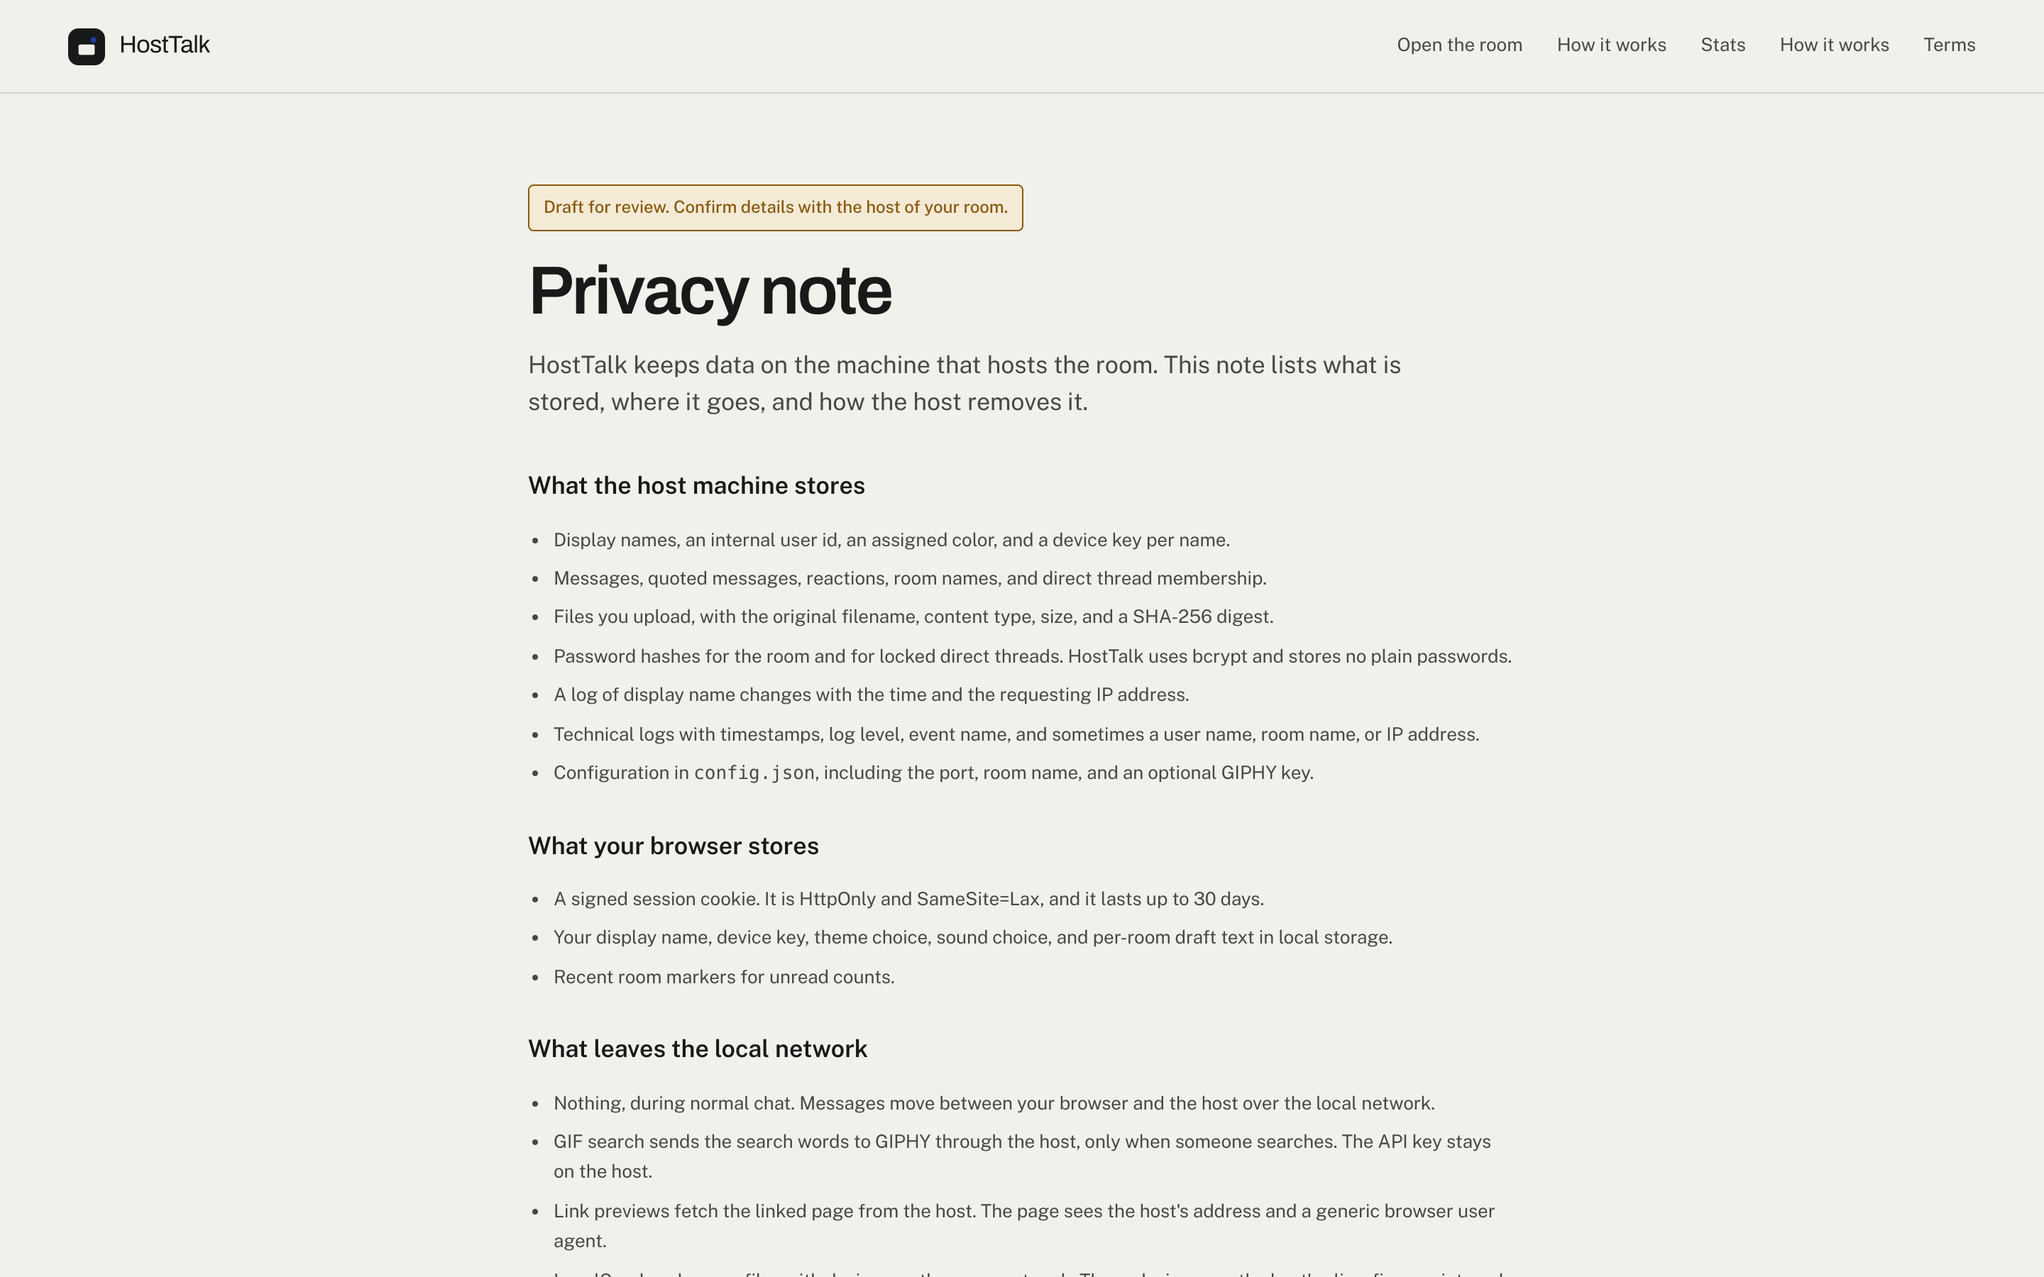
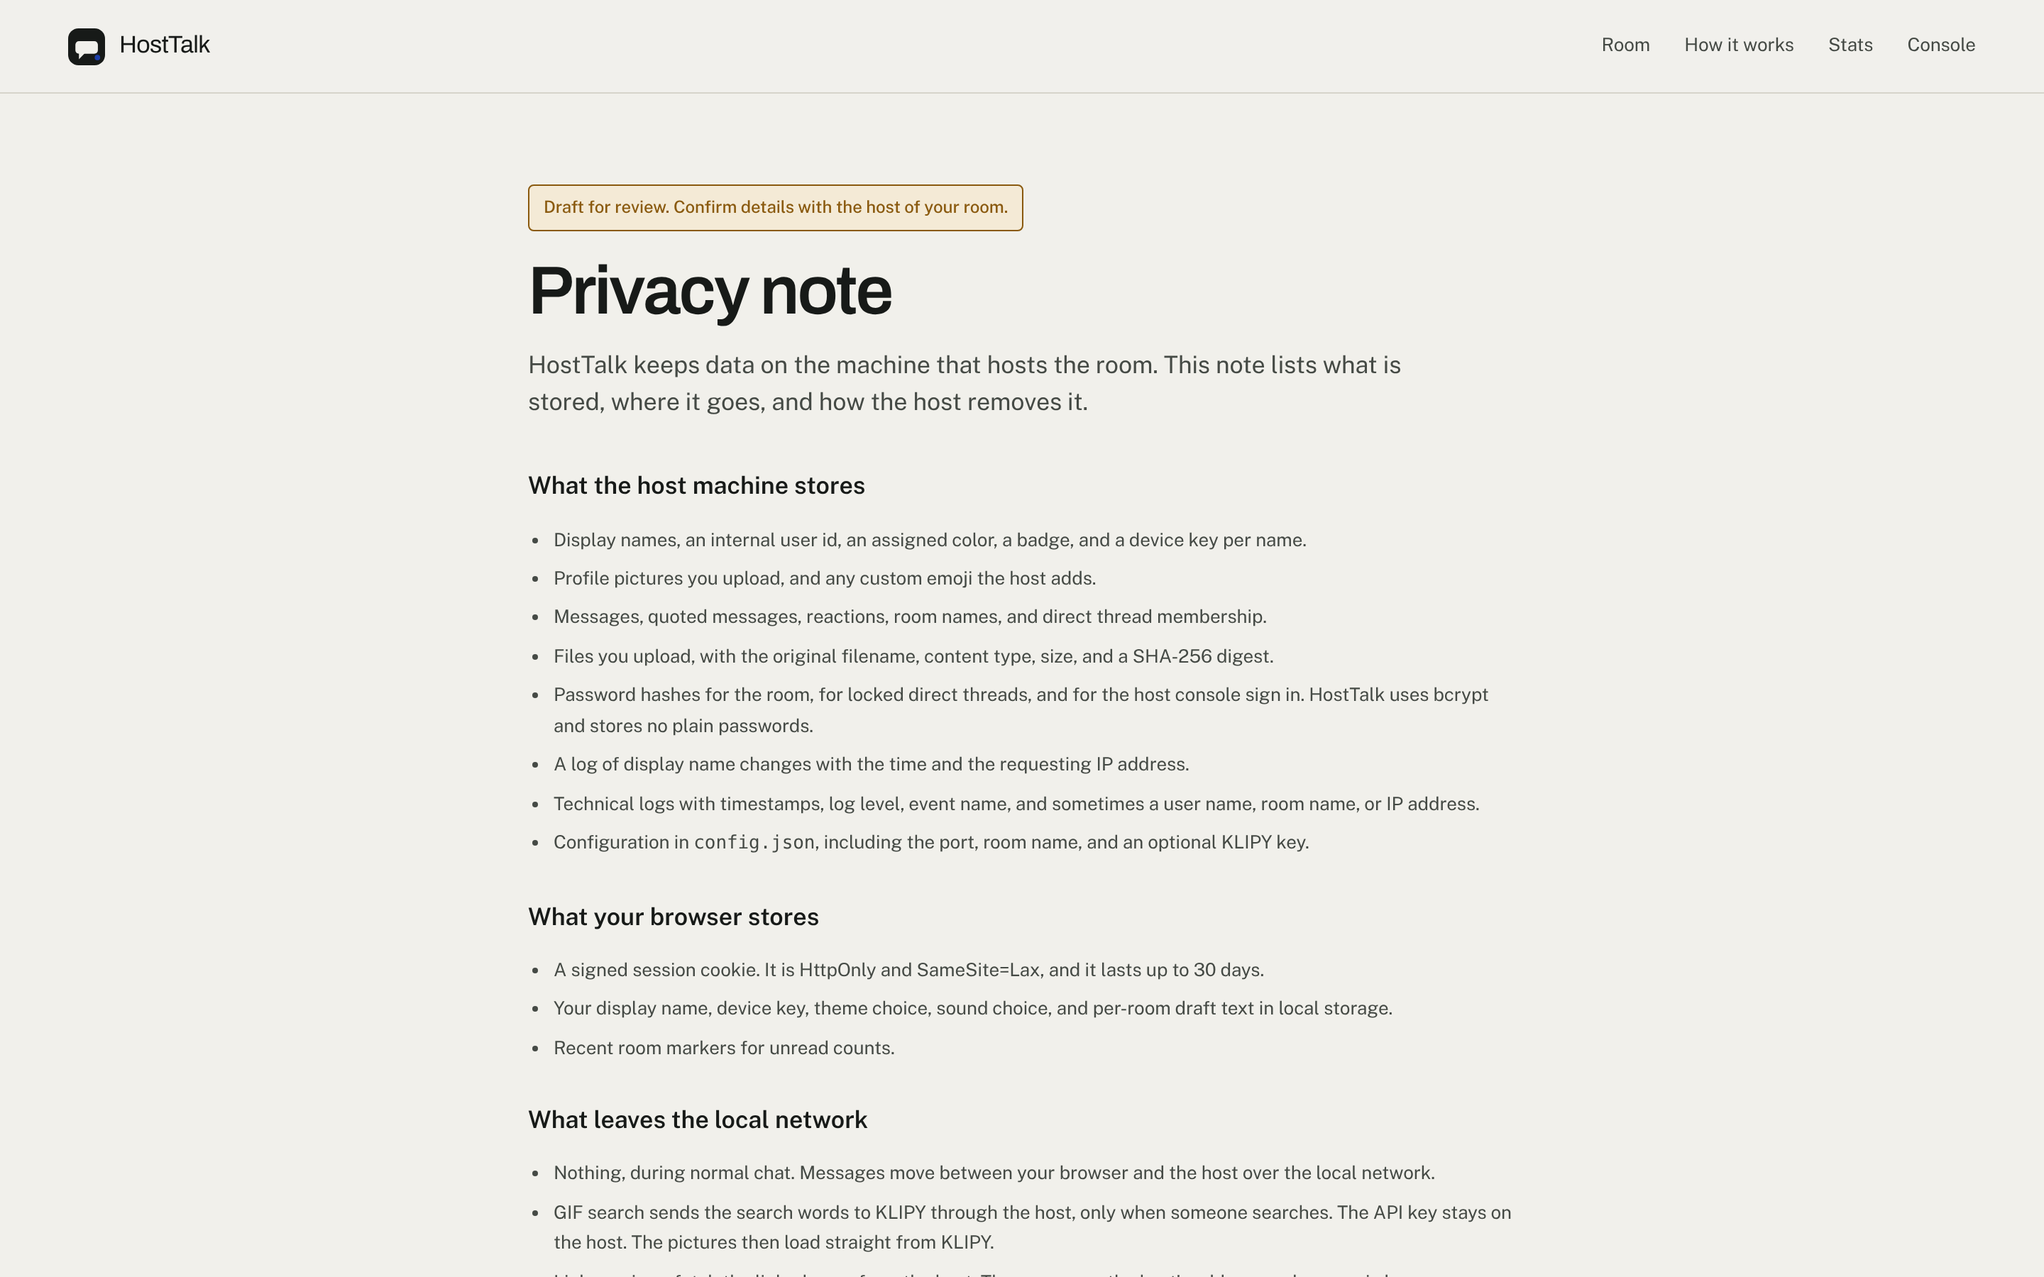
Replace the screenshot set with the 2.2 room
Every image came from a fresh demo room on this build, captured in one pass
at 1440 by 900 with device scale 2, and at 414 by 896 for the phone views.

- The room shows profile pictures, a badge each, a nested room, an image
  attachment, a pin, a quote, an edit, and the hover toolbar under the pointer.
- The console shows the KLIPY field and the new settings layout.
- The seed script writes three people, four rooms, a custom emoji, and the
  message order the shots follow. Device keys stay stable, so a rerun joins
  the same three names instead of doubling them.
- The notes record how the set was made and where the demo pictures came from.

diff --git a/docs/seed-demo.js b/docs/seed-demo.js
@@ -1,19 +1,31 @@
 // Seeds a demo room over the public API. One HTTP client per person, so each
 // gets its own session cookie, exactly like three separate devices.
+//
+// Run against a fresh data folder:
+//   node docs/seed-demo.js
+//
+// The screenshots in static/screenshots come from this room. Every name and
+// message is a placeholder.
 const BASE = process.env.BASE || "http://127.0.0.1:7284";
 const PW = process.env.PW || "frontroom";
+const ASSETS = process.env.ASSETS || "/tmp/cap/assets";
 const fs = require("fs");
+const path = require("path");
 
-function client() {
+function client(deviceKey) {
   let cookie = "";
-  async function call(path, options = {}) {
+  async function call(route, options = {}) {
     const headers = { ...(options.headers || {}) };
     if (cookie) headers.cookie = cookie;
     if (options.json !== undefined) {
       headers["content-type"] = "application/json";
       options.body = JSON.stringify(options.json);
     }
-    const response = await fetch(BASE + path, { method: options.method || "GET", headers, body: options.body });
+    const response = await fetch(BASE + route, {
+      method: options.method || "GET",
+      headers,
+      body: options.body,
+    });
     const set = response.headers.getSetCookie ? response.headers.getSetCookie() : [];
     if (set.length) cookie = set.map((entry) => entry.split(";")[0]).join("; ");
     const text = await response.text();
@@ -23,95 +35,136 @@ function client() {
     } catch (error) {
       data = { raw: text.slice(0, 200) };
     }
-    if (!response.ok) throw new Error(`${path} ${response.status} ${JSON.stringify(data).slice(0, 200)}`);
+    if (!response.ok) {
+      throw new Error(`${route} ${response.status} ${JSON.stringify(data).slice(0, 240)}`);
+    }
     return data;
   }
-  return { call };
+  async function upload(route, field, filePath, filename, extra = {}) {
+    const form = new FormData();
+    const type = filename.endsWith(".png") ? "image/png" : "application/octet-stream";
+    for (const [key, value] of Object.entries(extra)) form.append(key, value);
+    form.append(field, new Blob([fs.readFileSync(filePath)], { type }), filename);
+    const response = await fetch(BASE + route, { method: "POST", body: form, headers: { cookie } });
+    const data = await response.json();
+    if (!response.ok) throw new Error(`${route} ${response.status} ${JSON.stringify(data).slice(0, 240)}`);
+    return data;
+  }
+  return { call, upload };
 }
 
-async function join(name) {
-  const c = client();
+async function join(name, key) {
+  const c = client(key);
   await c.call("/api/session", {
     method: "POST",
-    json: { name, password: PW, device_key: `seed-${name.toLowerCase()}` },
+    json: { name, password: PW, device_key: key },
   });
   return c;
 }
 
 async function say(c, roomId, body, extra = {}) {
-  return c.call("/api/messages", {
-    method: "POST",
-    json: { room_id: roomId, body, ...extra },
-  });
+  return c.call("/api/messages", { method: "POST", json: { room_id: roomId, body, ...extra } });
 }
 
 const sleep = (ms) => new Promise((r) => setTimeout(r, ms));
 
 (async () => {
-  const mara = await join("Mara");
-  const jonas = await join("Jonas");
-  const ada = await join("Ada");
-  await sleep(300);
+  const mara = await join("Mara", "seed-mara");
+  const jonas = await join("Jonas", "seed-jonas");
+  const ada = await join("Ada", "seed-ada");
+  await sleep(400);
 
-  const first = await say(mara, "main", "Coffee is ready. Mugs are on the shelf above the kettle.");
-  await sleep(200);
-  await say(
-    mara,
-    "main",
-    "The fibre installer comes Thursday between 9 and 11. I will be out, so someone needs to let him in."
+  // Pictures for two of the three. Ada keeps her initials, which shows the fallback.
+  for (const [who, file] of [
+    [mara, "mara.png"],
+    [jonas, "jonas.png"],
+  ]) {
+    await who.upload("/api/me/avatar", "avatar", path.join(ASSETS, file), file);
+  }
+
+  // Badges: one icon plus up to four characters.
+  await mara.call("/api/me", { method: "PATCH", json: { badge_icon: "room", badge_text: "HOME" } });
+  await jonas.call("/api/me", { method: "PATCH", json: { badge_icon: "hash", badge_text: "JON" } });
+
+  // A custom emoji, added by the host.
+  const emojiData = await mara.upload(
+    "/api/emoji",
+    "file",
+    path.join(ASSETS, "mug.png"),
+    "mug.png",
+    { name: "mug" }
   );
-  await sleep(200);
-  const reply = await say(mara, "main", "Leaving the side gate open from eight.");
-  await sleep(200);
-  await jonas.call(`/api/messages/${reply.message.id}/reactions`, {
-    method: "POST",
-    json: { emoji: "👍" },
-  });
-  await sleep(200);
-  await say(jonas, "main", "I will take the morning slot. Working from the front room anyway.");
+  console.log("emoji", emojiData.emoji.token);
 
-  // Ada uploads the label image, then posts it into the room.
-  const form = new FormData();
-  const file = new Blob([fs.readFileSync("/home/user/HostTalk/static/screenshots/demo-label.png")], {
-    type: "image/png",
-  });
-  form.append("file", file, "front-room-label.png");
-  const uploadResponse = await fetch(BASE + "/api/uploads", {
-    method: "POST",
-    body: form,
-    headers: { cookie: await cookieFor("Ada") },
-  });
-  const uploaded = await uploadResponse.json();
-  if (!uploadResponse.ok) throw new Error("upload failed " + JSON.stringify(uploaded).slice(0, 200));
-  const attachmentId = uploaded.attachment.id;
-  await ada.call("/api/messages", {
+  // The main thread, in the order the shots read: the image sits above the
+  // fold so the text below it fits in one view.
+  await say(mara, "main", "Coffee is ready. Mugs are on the shelf above the kettle.");
+  await sleep(200);
+
+  const uploaded = await ada.upload(
+    "/api/uploads",
+    "file",
+    "/home/user/HostTalk/static/screenshots/demo-label.png",
+    "front-room-label.png"
+  );
+  const labelled = await ada.call("/api/messages", {
     method: "POST",
     json: {
       room_id: "main",
       body: "Label draft, second pass.",
       kind: "image",
-      attachment_id: attachmentId,
+      attachment_id: uploaded.attachment.id,
     },
   });
-  await sleep(300);
+  await sleep(250);
+
+  const pinned = await say(
+    mara,
+    "main",
+    "The fibre installer comes Thursday between 9 and 11. I will be out, so someone needs to let him in."
+  );
+  await sleep(200);
+
+  const reacted = await say(mara, "main", "Leaving the side gate open from eight.");
+  await sleep(200);
+  for (const [who, emoji] of [
+    [jonas, "👍"],
+    [ada, "🙂"],
+    [ada, emojiData.emoji.token],
+  ]) {
+    await who.call(`/api/messages/${reacted.message.id}/reactions`, { method: "POST", json: { emoji } });
+    await sleep(120);
+  }
+
+  await say(jonas, "main", "I will take the morning slot. Working from the front room anyway.");
+  await sleep(200);
+
+  // A quote, then an edit, so the thread shows both.
   const quoted = await mara.call("/api/messages", {
     method: "POST",
     json: {
       room_id: "main",
       body: "Second pass, please. Keep the band and calm the body text.",
-      quote_id: first.message.id,
+      quote_id: labelled.message.id,
     },
   });
-  console.log("quote", quoted.message ? "ok" : JSON.stringify(quoted).slice(0, 160));
-
-  // A group room with the three people plus a locked direct thread.
-  const room = await mara.call("/api/rooms", {
-    method: "POST",
-    json: { name: "Kitchen plans" },
+  await sleep(150);
+  await mara.call(`/api/messages/${quoted.message.id}`, {
+    method: "PATCH",
+    json: { body: "Second pass, please. Keep the band and calm the body text." },
   });
-  const roomId = room.room.id;
-  const invite = await mara.call(`/api/rooms/${roomId}/invite`, { method: "POST" });
-  for (const [c, name] of [[jonas, "Jonas"], [ada, "Ada"]]) {
+
+  // A pin, so the pinned sheet has something in it. Mara is the host.
+  await mara.call(`/api/messages/${pinned.message.id}/pin`, { method: "POST", json: { pinned: true } });
+
+  // A group room inside the main room, and a room inside that one, locked.
+  const kitchen = await mara.call("/api/rooms", { method: "POST", json: { name: "Kitchen plans" } });
+  const kitchenId = kitchen.room.id;
+  const invite = await mara.call(`/api/rooms/${kitchenId}/invite`, { method: "POST" });
+  for (const [c, name] of [
+    [jonas, "Jonas"],
+    [ada, "Ada"],
+  ]) {
     try {
       await c.call("/api/rooms/join", { method: "POST", json: { code: invite.code } });
       console.log("joined", name);
@@ -119,25 +172,28 @@ const sleep = (ms) => new Promise((r) => setTimeout(r, ms));
       console.log("join failed", name, error.message);
     }
   }
-  await say(mara, roomId, "Room for the kitchen work. Plans, dates, receipts.");
-  await say(ada, roomId, "Paint swatches land tomorrow. Two warm options, one grey.");
+  await say(mara, kitchenId, "Room for the kitchen work. Plans, dates, receipts.");
+  await sleep(150);
+  await say(ada, kitchenId, "Paint swatches land tomorrow. Two warm options, one grey.");
+  await sleep(150);
+  await say(jonas, kitchenId, "The tap arrives Friday. I will fit it Saturday morning.");
 
+  const roof = await mara.call("/api/rooms", {
+    method: "POST",
+    json: { name: "Roof work", parent_id: kitchenId, password: "ladder" },
+  });
+  console.log("roof", roof.room.id);
+  await say(mara, roof.room.id, "Scaffold quote is in. Two days, weather permitting.");
+
+  // A direct thread with a password on it, which shows the lock in the rail.
   const people = await mara.call("/api/people");
   const jonasId = people.people.find((person) => person.name === "Jonas").id;
   const dm = await mara.call("/api/dm", { method: "POST", json: { user_id: jonasId } });
+  await mara.call(`/api/rooms/${dm.room.id}/password`, { method: "POST", json: { password: "router" } });
   await say(mara, dm.room.id, "Saturday works for the router swap. I will bring the ladder.");
+  await jonas.call("/api/rooms/" + dm.room.id + "/verify", { method: "POST", json: { password: "router" } });
   await say(jonas, dm.room.id, "Good. I will move the shelf first.");
   console.log("dm", dm.room.id);
+
   console.log("done");
 })();
-
-async function cookieFor(name) {
-  const c = client();
-  const response = await fetch(BASE + "/api/session", {
-    method: "POST",
-    headers: { "content-type": "application/json" },
-    body: JSON.stringify({ name, password: PW, device_key: `seed-${name.toLowerCase()}` }),
-  });
-  const set = response.headers.getSetCookie();
-  return set.map((entry) => entry.split(";")[0]).join("; ");
-}

diff --git a/docs/SCREENSHOTS.md b/docs/SCREENSHOTS.md
@@ -1,43 +1,54 @@
 # Screenshot notes
 
 Every screen image in `static/screenshots` comes from a running build. Nothing is a mockup.
-Every image here comes from the 2.0 build, so the room pictures show no badges, no profile pictures, the old mark, and the GIPHY key field. A fresh set follows the next capture run.
-The social preview is a type card, not a screenshot. Its markup lives in `docs/social-preview.html`.
+
+Every image here comes from the 2.2 build. The room pictures show badges, profile
+pictures, a room inside a room, the hover toolbar, and the KLIPY key field.
+The social preview is a type card, not a screenshot. Its markup lives in
+`docs/social-preview.html`.
 
 ## How the images were made
 
-1. A scratch data folder: `python -m hosttalk setup --data-dir /tmp/htdata --password frontroom --room "Front room" --port 7284`.
-2. The server on `127.0.0.1:7284` with `--headless`.
-3. Three seeded people plus one room and one direct thread, created through the public API. Seed script: the script in `docs/seed-demo.js`.
-4. Chromium at a 1440 by 900 viewport for desktop and 430 by 932 for phone, device scale 2.
-5. One browser process per person, so each session cookie and device key stay separate. People join through the join form, with `hosttalk.device` set to the seeded key before the page loads.
-6. The stats page is captured after the seeded people join, so the online count shows a live room.
-7. Fonts are awaited with `document.fonts.ready`, then the page settles for a second before the shot.
+1. A fresh, empty data folder: `python -m hosttalk setup --password frontroom --room "Front room" --port 7284 --non-interactive`.
+2. The server on `0.0.0.0:7284` with `--headless`.
+3. Three people, three rooms, one custom emoji, two pictures, and a badge each, created through the public API. The script is `docs/seed-demo.js`, and it needs Node 18 or newer.
+4. A headless Chromium at a 1440 by 900 viewport for desktop and 414 by 896 for phone, device scale 2.
+5. One browser context per person, so each session cookie and device key stay separate. The device key is written to local storage before the page loads, and the person joins through the join form.
+6. The address in the shots reads `http://192.168.1.24:7284/room`. A resolver rule in the capture browser points that address at the local server, so no real machine has to exist.
+7. Fonts are awaited with `document.fonts.ready`, then the page settles for half a second before the shot.
+
+## Where the demo pictures came from
+
+Two profile pictures and one custom emoji are drawn for this set, not photographed.
+Mara has a clay disc on a warm field. Jonas has a pale disc over two bands. The
+custom emoji is a mug. Ada keeps her initials, so the fallback stays visible.
 
 ## Labels
 
-The room text is demo copy. "Front room", "Kitchen plans", and the three names are placeholders. The label image in the thread is a generated placeholder, not a real design deliverable. Images do not show a real customer, a real conversation, or a benchmark.
+The room text is demo copy. "Front room", "Kitchen plans", "Roof work", and the
+three names are placeholders. The label image in the thread is a generated
+placeholder, not a real design deliverable. Images do not show a real customer, a
+real conversation, or a benchmark.
 
 ## Files
 
 | File | What it shows |
 | --- | --- |
 | `landing.png`, `landing-full.png` | Front page at 1440 wide, viewport and full page |
-| `landing-mobile.png` | Front page at phone width |
+| `landing-mobile.png` | Front page at phone width, full page |
 | `join-desktop.png` | Join page at 1440 wide |
 | `join-mobile.png` | Join page at 414 wide |
-| `room-desktop.png` | The room with three people and an image attachment |
+| `room-desktop.png` | The room with three people, a badge each, an image attachment, and the hover toolbar |
 | `room-mobile.png` | The room at phone width |
 | `room-mobile-people.png` | The people drawer on a phone |
 | `room-dark.png` | Dark theme |
 | `invite-dialog.png` | Invite sheet with the QR code |
-| `settings-dialog.png` | Personal settings sheet |
-| `new-room-dialog.png` | New room sheet |
+| `settings-dialog.png` | Personal settings sheet, with the badge picker |
+| `new-room-dialog.png` | New room sheet, with the parent room set |
 | `search.png` | Search results |
 | `stats.png`, `stats-full.png` | Project stats at 1440 wide, viewport and full page |
 | `stats-mobile.png` | Project stats at phone width |
 | `project-page.png` | The built project page at 1440 wide, full page |
-| `docs/social-preview.png` | The 1280 by 640 card GitHub shows for a shared link. It sits in `docs`, not here |
 | `console.png` | Host console at 1440 wide |
 | `console-full.png` | Host console, full page |
 | `console-mobile.png` | Host console at phone width |
@@ -45,6 +56,10 @@ The room text is demo copy. "Front room", "Kitchen plans", and the three names a
 | `about.png`, `about-full.png` | How it works page |
 | `terms.png`, `privacy.png` | Draft legal pages |
 | `not-found.png` | Error page |
+| `demo-label.png` | The placeholder picture posted in the demo thread, kept because the seed script reads it |
+
+`docs/social-preview.png` is separate. The table above covers the folder, and the
+card sits in `docs`.
 
 ## Social preview
 
@@ -61,10 +76,13 @@ Upload the PNG at Settings, General, Social preview. GitHub has no API for that 
 
 `tests/test_landing.py` reads the PNG header and checks the size.
 
-## Front page and room path
-
-The front page moved to `/` and the room to `/room` after the first pass of images. The screenshots above were captured after the move, so addresses read `http://192.168.x.x:7284/room`. A few dialog images from the earlier set still show the bare address without the path. The room itself is unchanged.
-
 ## Rerunning
 
-Use any Chromium with a remote debugging port. The capture scripts are local tools and stay out of the repository. Recreate the demo data first, because names bind to device keys and a second run with a fresh data folder starts clean.
+Use any Chromium with a remote debugging port. The capture scripts are local tools
+and stay out of the repository. Recreate the demo data first, because names bind to
+device keys and a second run with a fresh data folder starts clean.
+
+A headless browser reports no fine pointer, so the layout rule `@media (hover: none)`
+applies and the message toolbar sits in the row instead of floating. The capture
+script restores the hover rule for the desktop shots, and the phone shots keep the
+touch layout.

diff --git a/README.md b/README.md
@@ -91,7 +91,7 @@ The 1.x build shipped one room, a five character password check, and a page with
 
 ## Screens
 
-The images below come from the 2.0 build. The interface moved on in 2.2: badges, profile pictures, rooms inside rooms, and a hover toolbar on each message. `docs/SCREENSHOTS.md` records how a fresh set is made.
+The images below come from the 2.2 build: badges, profile pictures, rooms inside rooms, and a hover toolbar on each message. `docs/SCREENSHOTS.md` records how the set is made.
 
 Every server starts on a front page. Live counts, the room address, and one button into the room. The page needs no script.
 
